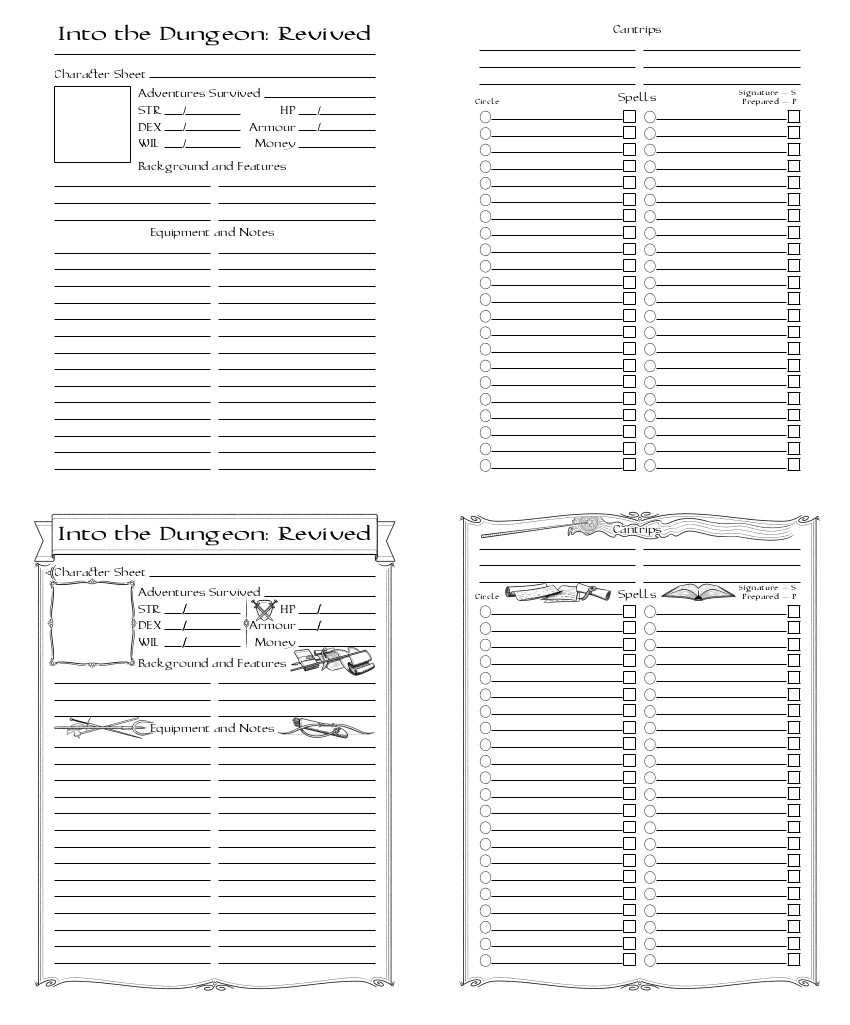
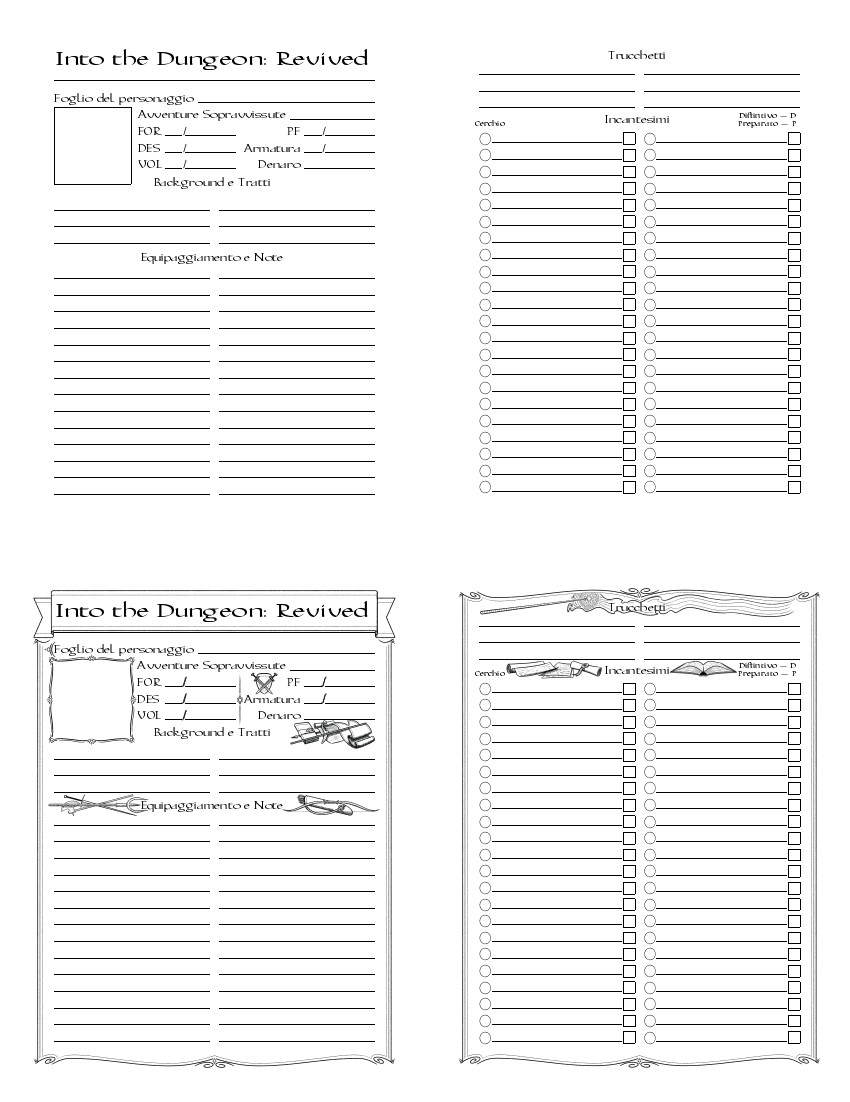
updated readme

diff --git a/README.md b/README.md
@@ -56,7 +56,6 @@ Stampa
   * pz `*_booklet_r.pdf`: Fronte-retro - lato lungo (standard)
 * Adattamento della pagina: `nessuno`
 * Ruota automaticamente e centra: `sì`
-* Ritagliare gli opuscoli stampati a circa 13,7 x 20,3 cm
 
 Script
 -------
@@ -99,9 +98,9 @@ Cosa c'è di diverso rispetto a "Into the Dungeon: Playtest Edition"?
 Changelog
 ---------
 
-### v0.1
+### v2.2-it1
 
 #### Versione in italiano
 * Prima stesura da revisionare del regolamento completo (edizione default, light, minimal)
-* Contenuto non tradotto: strumenti online e schede
+* Contenuto non tradotto: strumenti online
 * Per il changelog del gioco originale, si rimanda alla pagina di quest'ultimo
